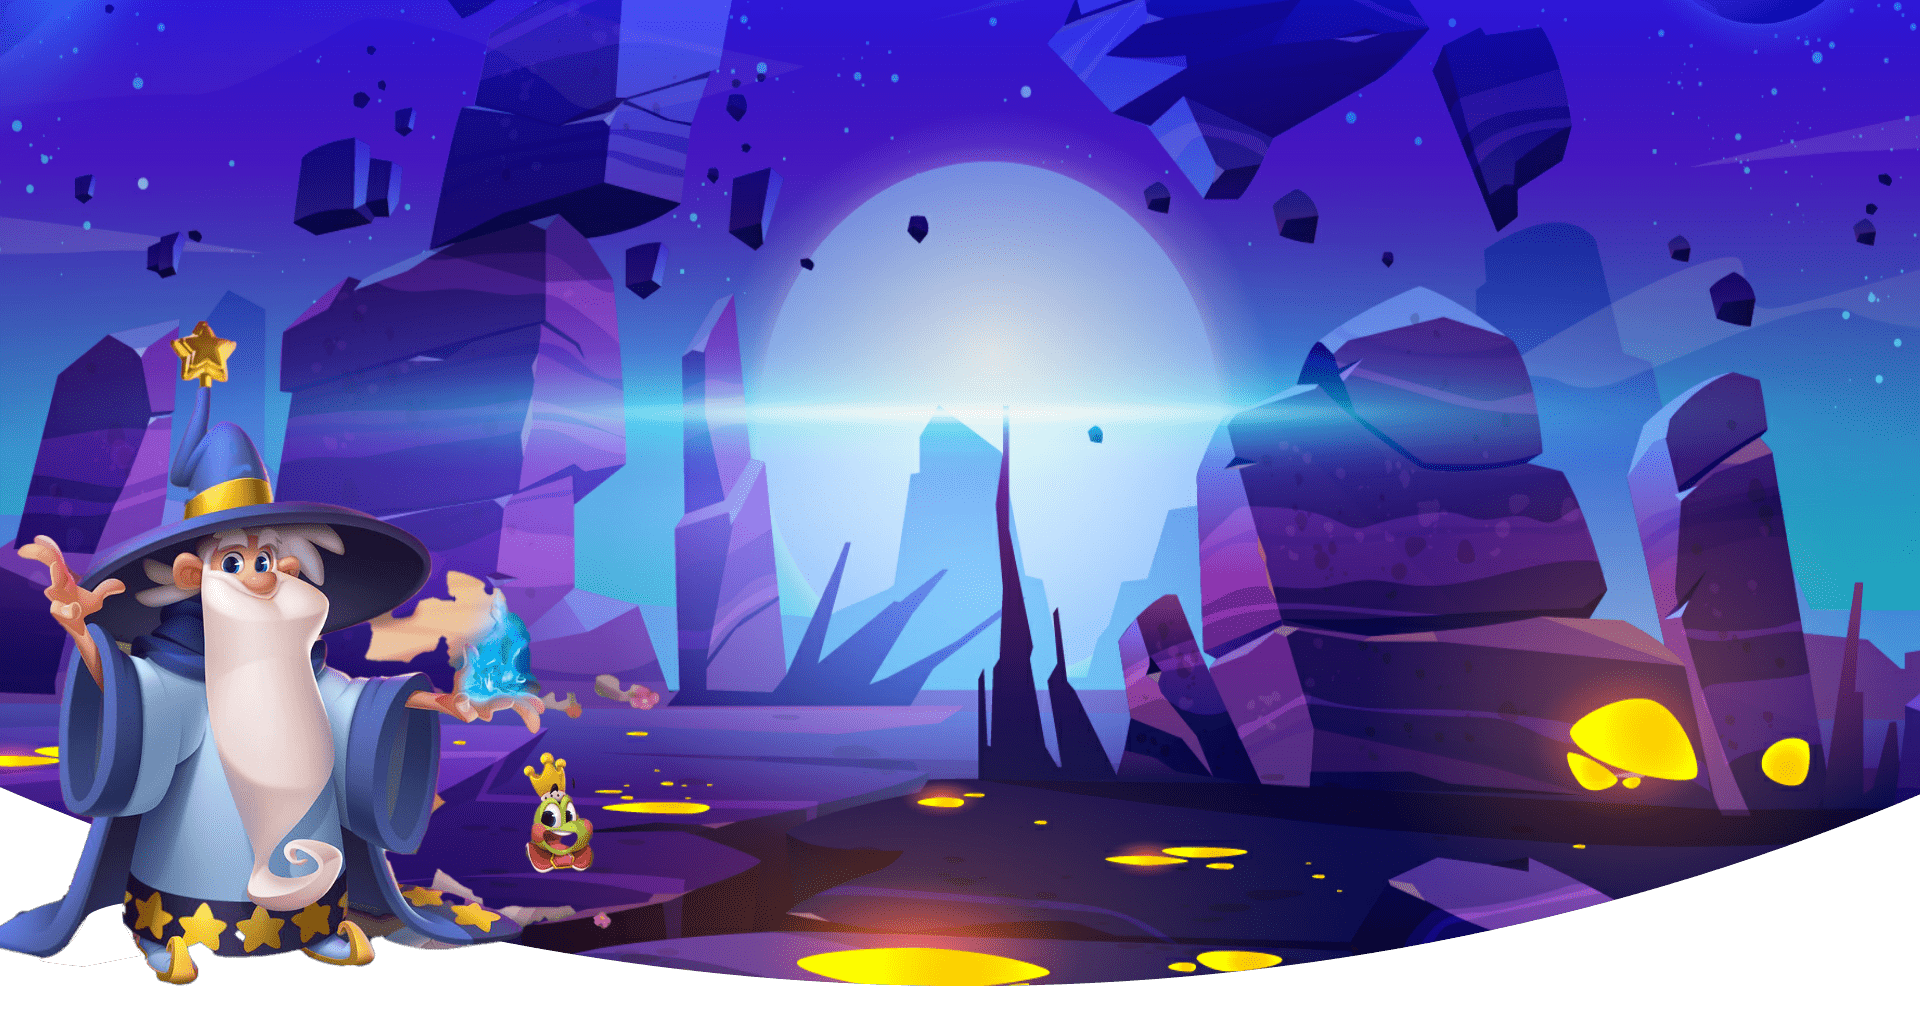
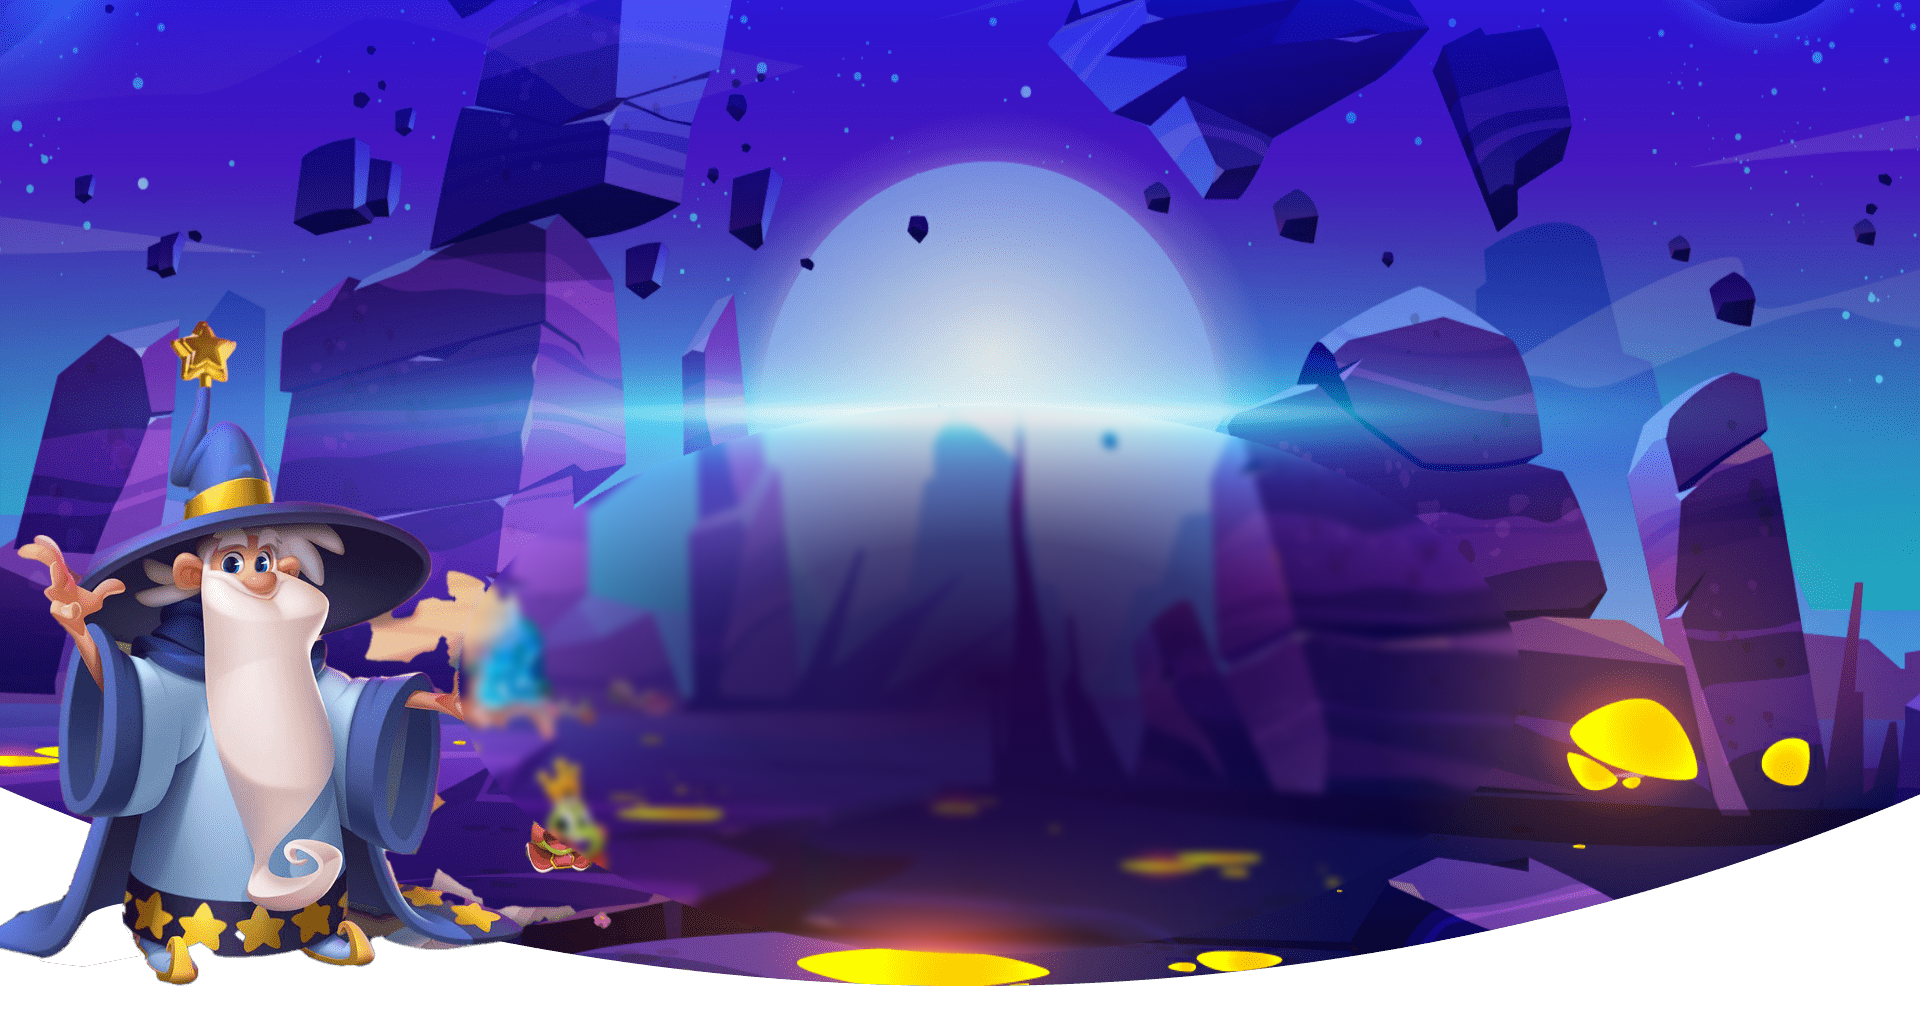
up src code

diff --git a/assets/scss/header.scss b/assets/scss/header.scss
@@ -4,25 +4,6 @@
   background-size: cover;
   background-image: url('../images/header/banner.png');
 
-  &::after {
-    content: "";
-    width: 100%;
-    height: 100%;
-    position: absolute;
-    top: -12%;
-    left: 0;
-    background: radial-gradient(27.72% 27.79% at 50.81% 68.15%, #210544 0%, rgba(23, 5, 68, 0.71) 50.52%, rgba(23, 5, 68, 0) 100%);
-
-    @media (max-width: 1650px) {
-      top: 0;
-      bottom: 0;
-    }
-
-    @media (max-width: 600px) {
-      top: -25%;
-    }
-  }
-
   .container-fluid {
     position: relative;
     z-index: 1;

diff --git a/nuxt.config.js b/nuxt.config.js
@@ -83,7 +83,7 @@ export default {
   },
 
   i18n: {
-    locales: ["en", "vi"],
+    locales: ["vi", "en"],
     defaultLocale: "en",
     strategy: "prefix",
     seo: true,
